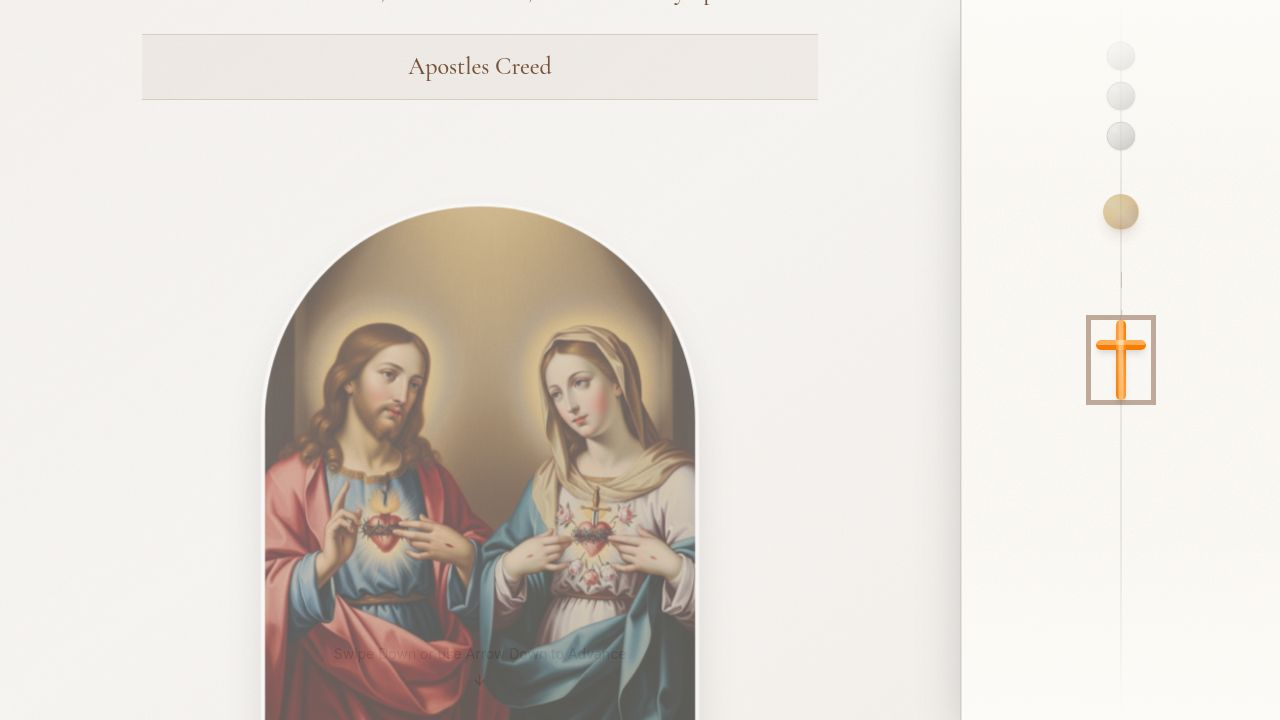
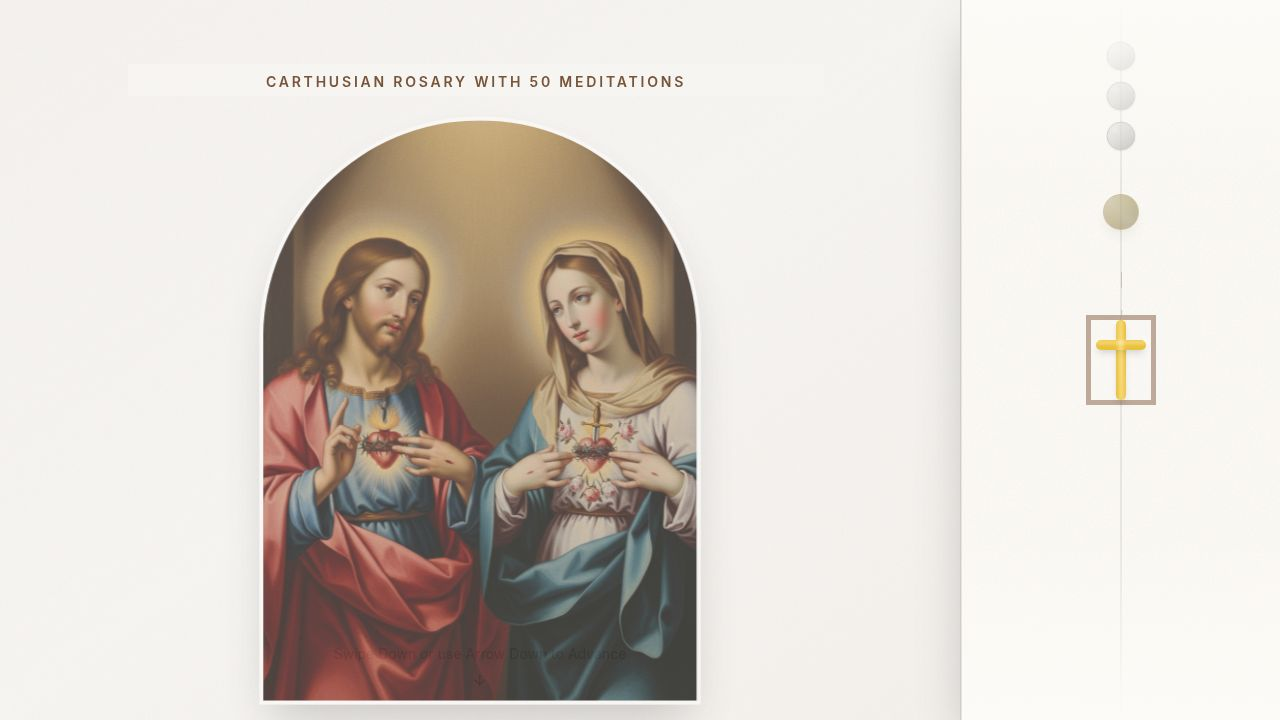
Update initial rosary screen to reflect Carthusian tradition
Refine the cross bead's title and body text, and remove the Apostles' Creed subtext from rosary-data.ts.

Replit-Commit-Author: Agent
Replit-Commit-Session-Id: 25b339cd-3716-4f78-8386-5317aa2d4dc7
Replit-Commit-Checkpoint-Type: full_checkpoint
Replit-Commit-Event-Id: b82acc9d-54fa-4c62-91fc-e64591ed8b0d
Replit-Commit-Screenshot-Url: https://storage.googleapis.com/screenshot-production-us-central1/941b3aaa-a93e-45de-b1a7-b79ef8a0b149/25b339cd-3716-4f78-8386-5317aa2d4dc7/Obw0k7V
Replit-Helium-Checkpoint-Created: true

Changed region(s): [[0.1875, 0.1528, 0.5625, 1.0], [0.2188, 0.0917, 0.5312, 0.1222], [0.8438, 0.4583, 0.9062, 0.55]]

diff --git a/client/src/components/PrayerCard.tsx b/client/src/components/PrayerCard.tsx
@@ -8,6 +8,7 @@ interface PrayerCardProps {
 
 export const PrayerCard: React.FC<PrayerCardProps> = ({ bead }) => {
   const isMHM = bead.prayer.body.includes("Hail Mary, full of grace");
+  const isCross = bead.type === 'cross';
 
   return (
     <div className="h-full flex flex-col items-center p-8 pt-16 max-w-3xl mx-auto text-center relative z-10 overflow-hidden">
@@ -28,7 +29,7 @@ export const PrayerCard: React.FC<PrayerCardProps> = ({ bead }) => {
               animate={{ opacity: 1 }}
               transition={{ delay: 0.2 }}
             >
-              {bead.label} — {bead.prayer.title}
+              {isCross ? bead.prayer.title : `${bead.label} — ${bead.prayer.title}`}
             </motion.h2>
             
             <div className="space-y-4">

diff --git a/client/src/lib/rosary-data.ts b/client/src/lib/rosary-data.ts
@@ -142,11 +142,10 @@ const rawBeads: BeadData[] = [
   {
     id: 'crucifix',
     type: 'cross',
-    label: 'Cross',
+    label: '',
     prayer: {
       title: 'Carthusian Rosary with 50 Meditations',
-      body: 'Let us meditate on the life of our Lord Jesus Christ and his Blessed Mother.',
-      subtext: 'Apostles Creed'
+      body: 'Let us meditate on the life of our Lord Jesus Christ and our Blessed Mother.'
     },
     image: sacredHeartImg
   },
